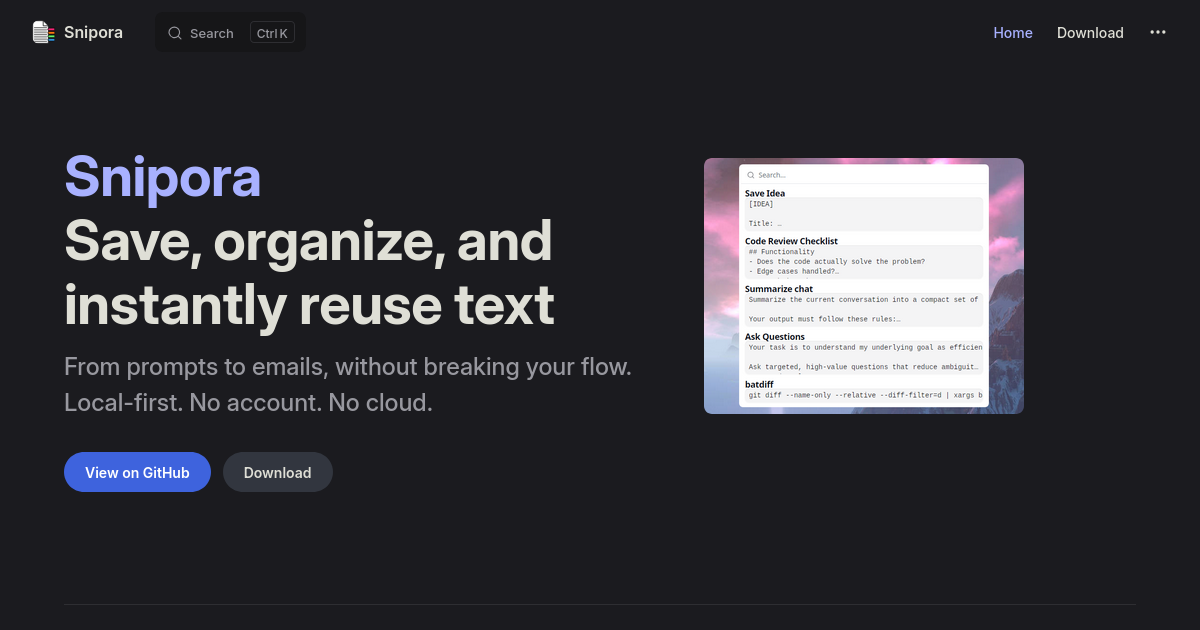
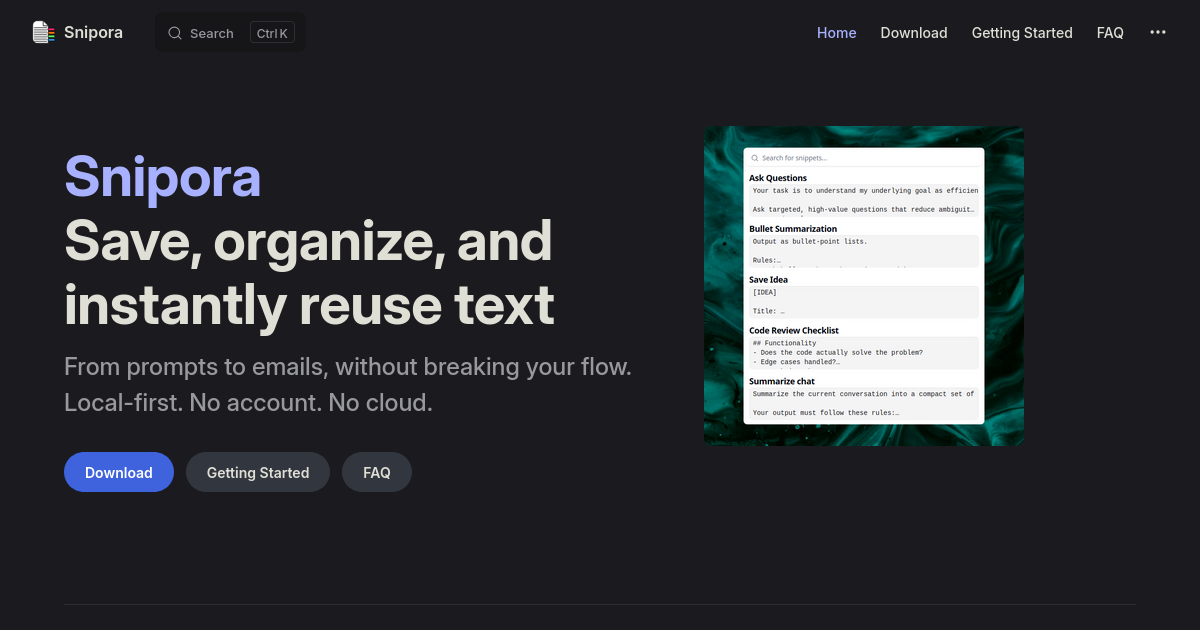
docs: update screenshots

Changed region(s): [[0.5858, 0.181, 0.8633, 0.7238], [0.0617, 0.6937, 0.3392, 0.7841], [0.6783, 0.0302, 0.9558, 0.0603]]

diff --git a/en/index.md b/en/index.md
@@ -44,7 +44,7 @@ Press a ::command:: shortcut. ::search:: Search. ::type-outline:: Insert. ::chec
 
 <div class="grid place-items-center">
 
-![Popup Window](assets/popup-cropped.png){.rounded-xl}
+![Popup Window](../assets/screenshots/popup-window.png){.rounded-xl}
 </div>
 
 ## ::user:: Use cases
@@ -77,9 +77,9 @@ Managing snippets in files or note tools quickly becomes messy.
 
 <div class="grid md:grid-cols-2 place-items-center">
 
-![Tag-based organization](assets/sidebar.png){.rounded-lg}
+![Tag-based organization](../assets/screenshots/sidebar.png){.rounded-lg}
 
-![Tag-based organization](assets/tag-sample.png){.rounded-lg}
+![Tag-based organization](../assets/screenshots/tag-sample.png){.rounded-lg}
 
 </div>
 
@@ -121,5 +121,5 @@ Snipora is designed with your privacy and security in mind:
 
 <div class="grid place-items-center">
 
-![Management Window](assets/main-window.png){.rounded-lg}
+![Management Window](../assets/screenshots/main-window.png){.rounded-lg}
 </div>